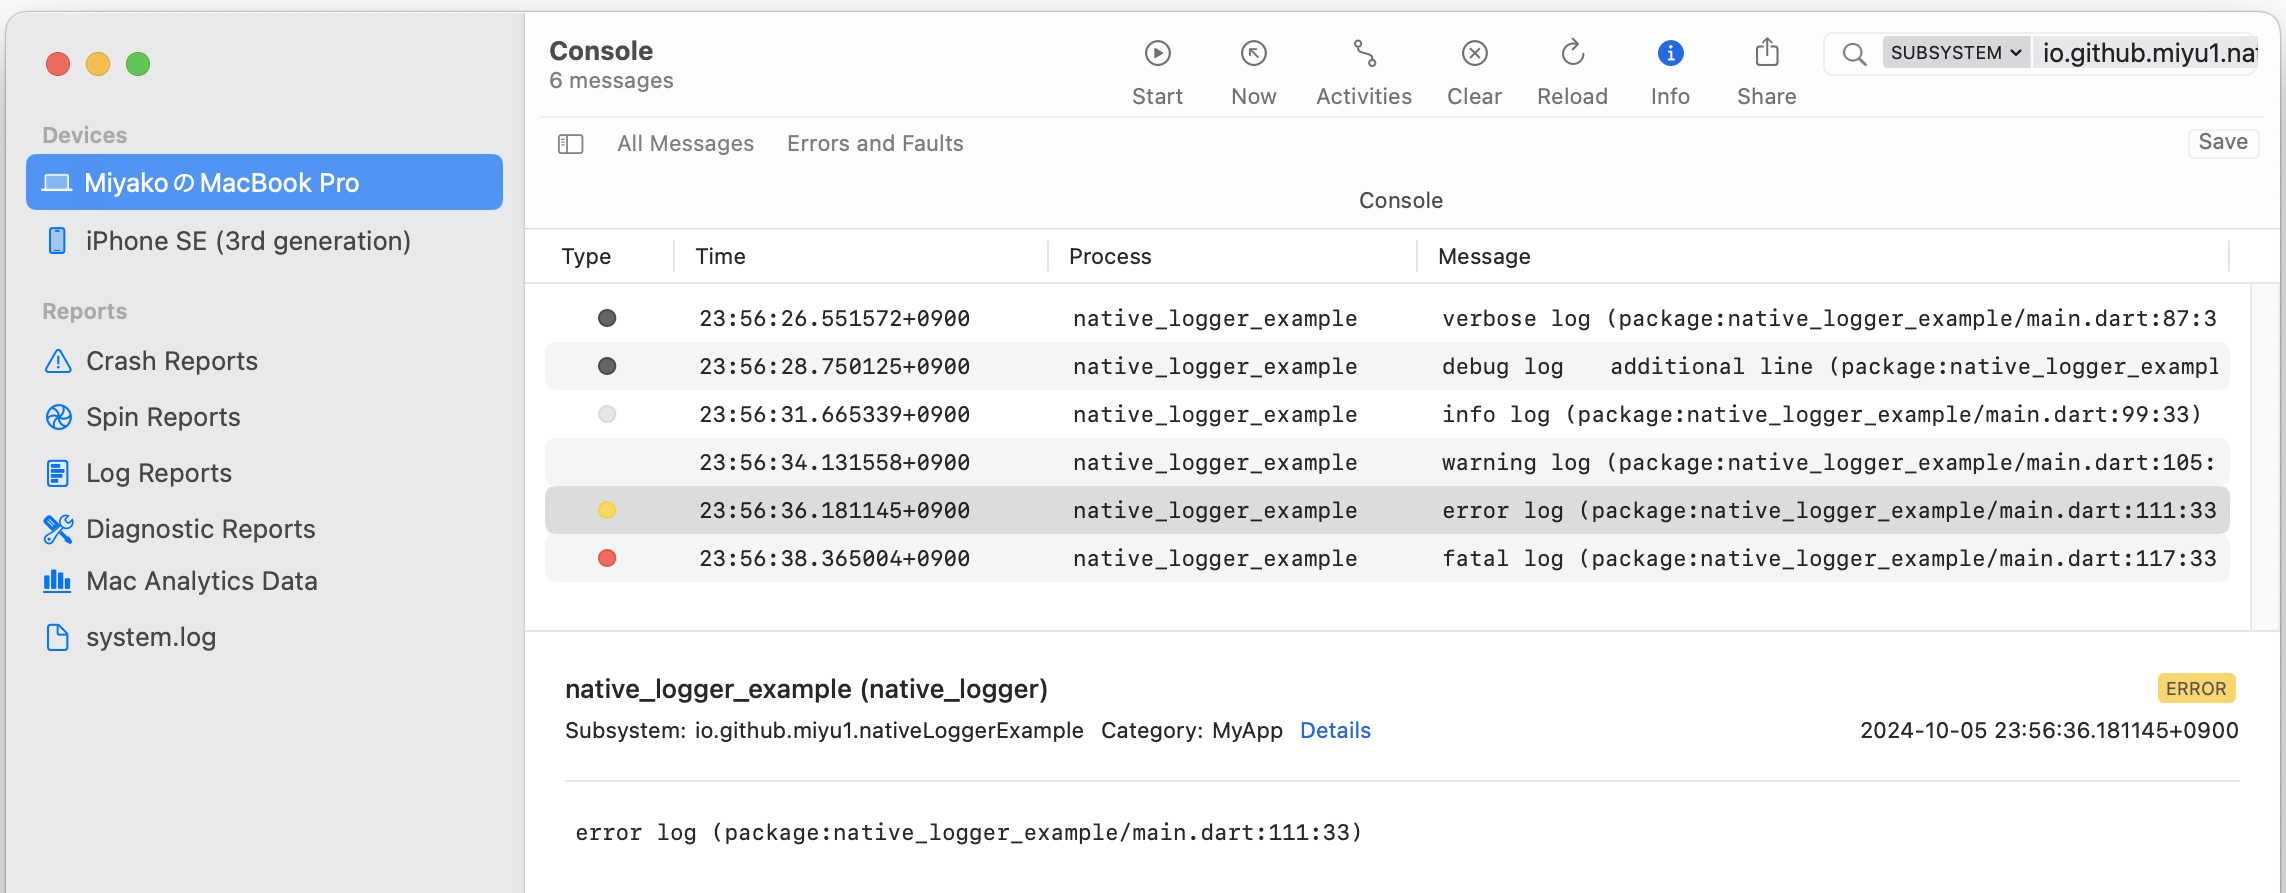
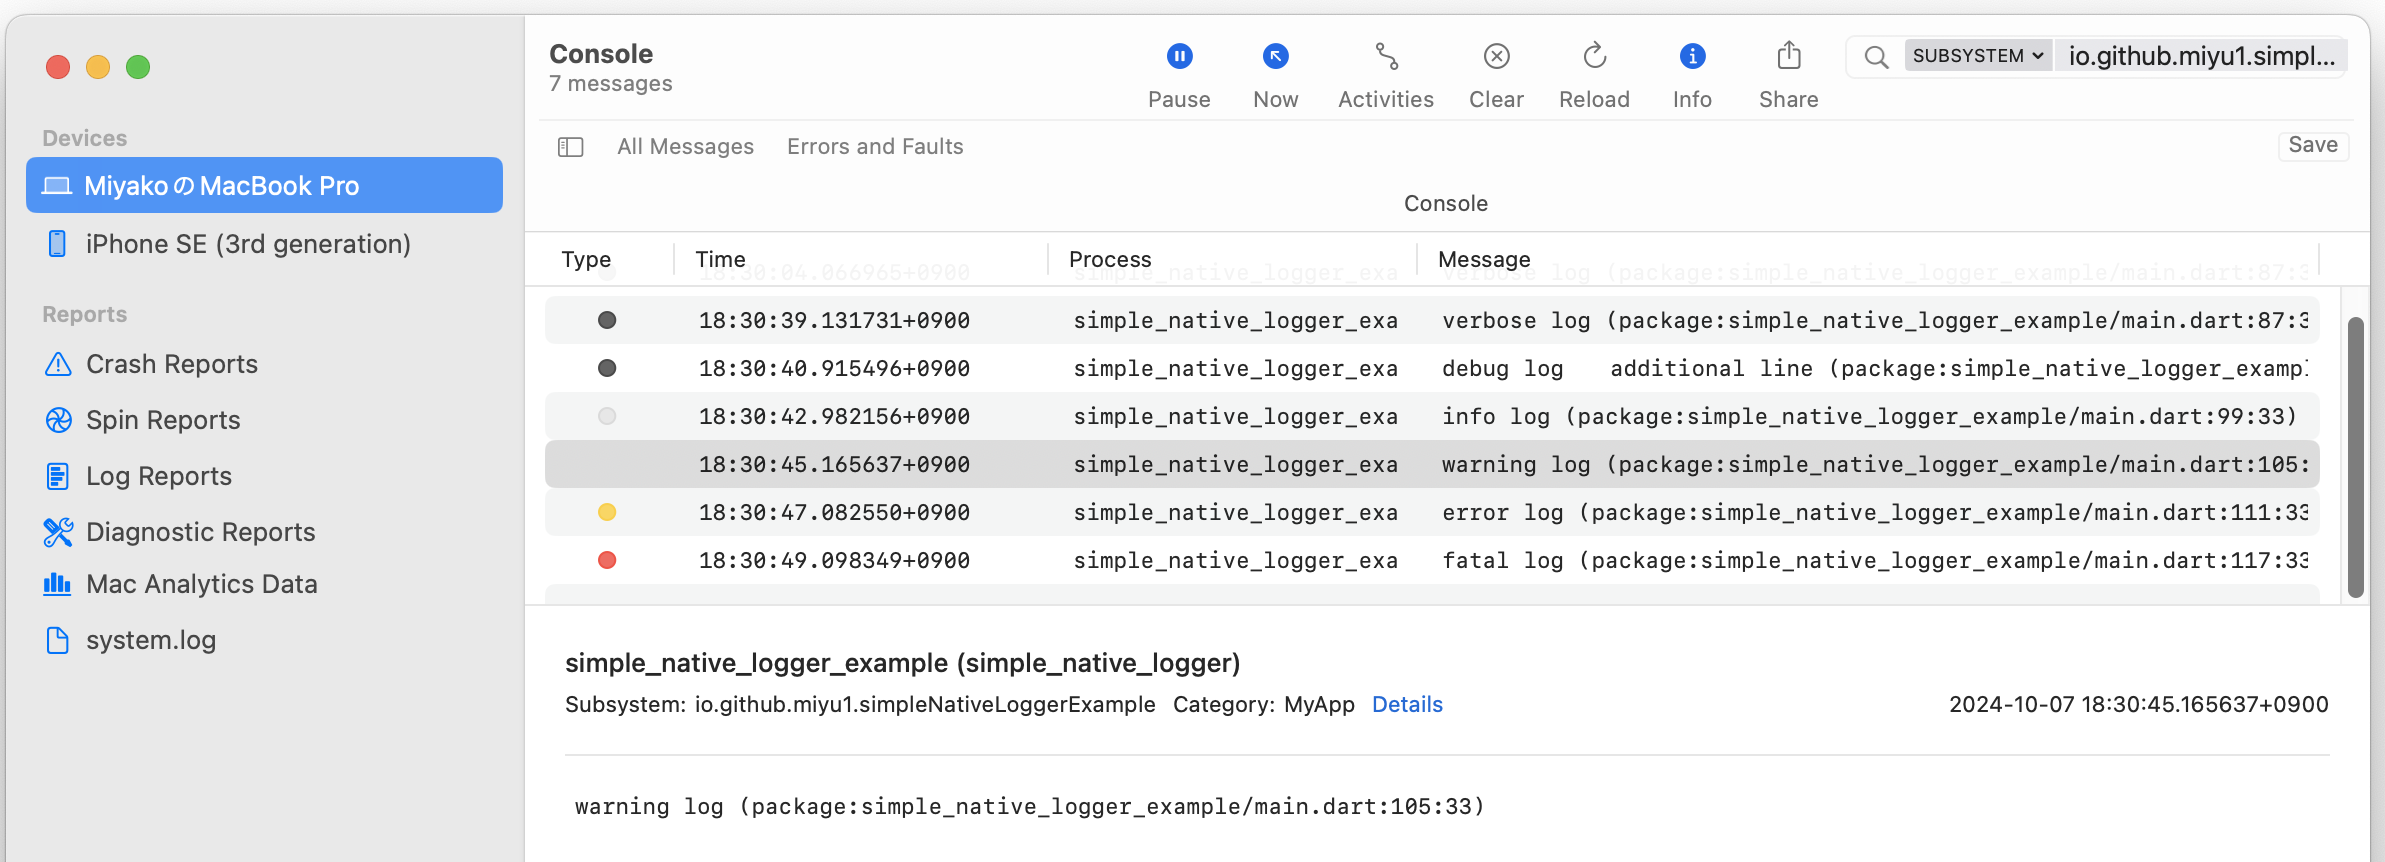
rename plugin name

diff --git a/example/test/macos_integration_test.dart b/example/test/macos_integration_test.dart
@@ -41,7 +41,7 @@ void main() {
     final logc = await ProcessRunner.start(
       "log",
       ["stream", "--level", "debug",
-       "--predicate", "subsystem = \"io.github.miyu1.nativeLoggerExample\"" ]
+       "--predicate", "subsystem = \"io.github.miyu1.simpleNativeLoggerExample\"" ]
     );
     /*
     await Future.delayed(const Duration(seconds: 3));
@@ -240,7 +240,7 @@ void main() {
     final logc = await ProcessRunner.start(
       "log",
       ["stream", "--level", "debug",
-       "--predicate", "subsystem = \"io.github.miyu1.nativeLoggerExample\"" ]
+       "--predicate", "subsystem = \"io.github.miyu1.simpleNativeLoggerExample\"" ]
     );
     /*
     await Future.delayed(const Duration(seconds: 3));

diff --git a/example/test/ios_integration_test.dart b/example/test/ios_integration_test.dart
@@ -42,7 +42,7 @@ void main() {
       "xcrun",
       [ "simctl", "spawn", deviceName,
         "log", "stream", "--level", "debug",
-       "--predicate", "subsystem = \"io.github.miyu1.nativeLoggerExample\"" ]
+       "--predicate", "subsystem = \"io.github.miyu1.simpleNativeLoggerExample\"" ]
     );
 
     debugPrint("start server process");
